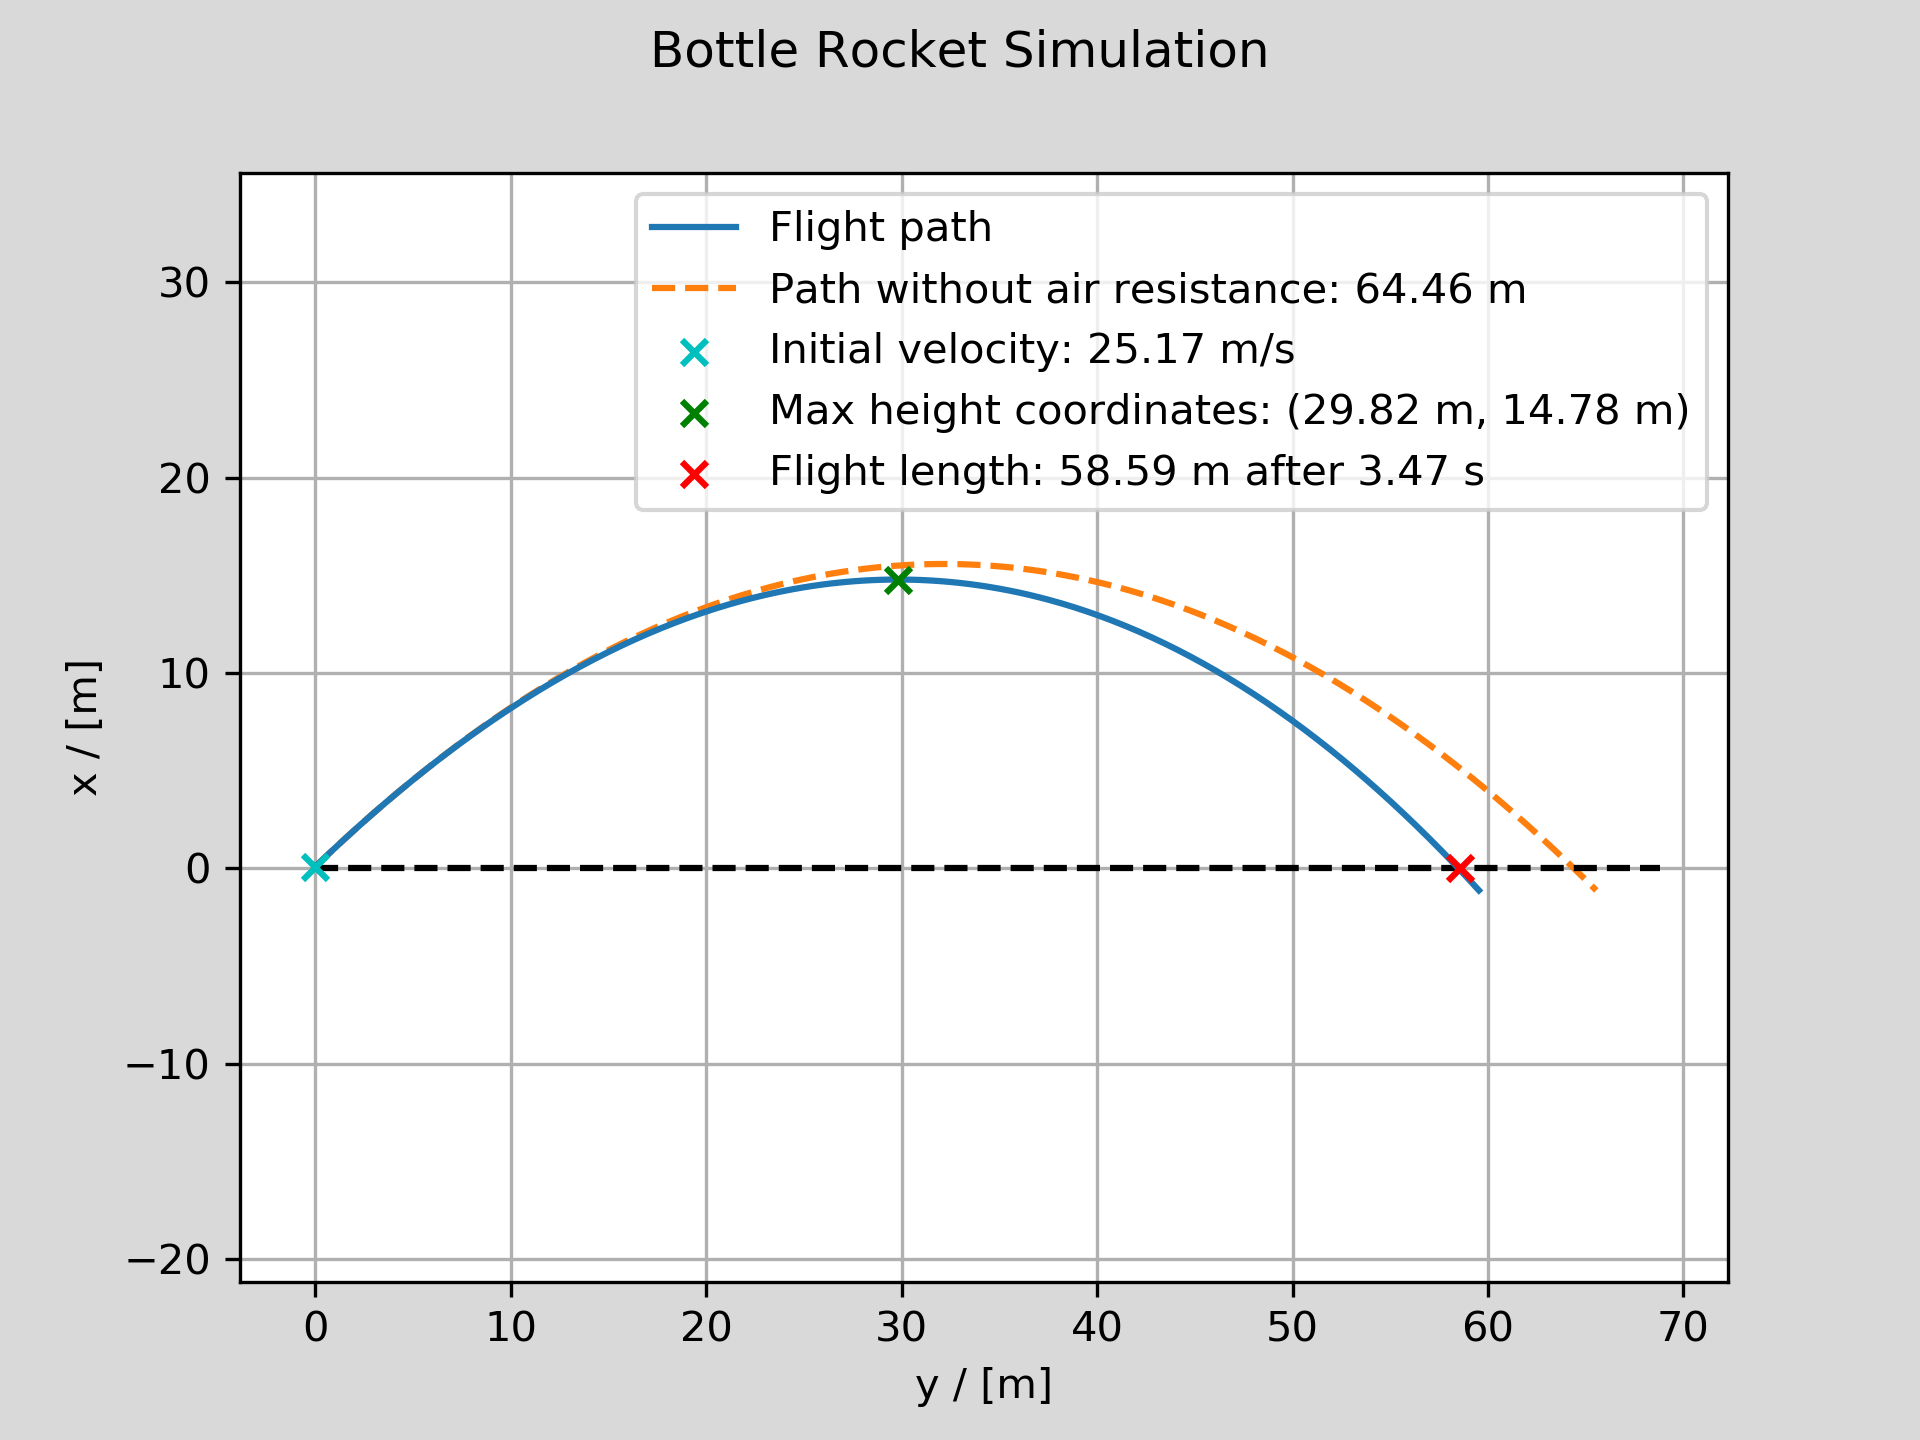
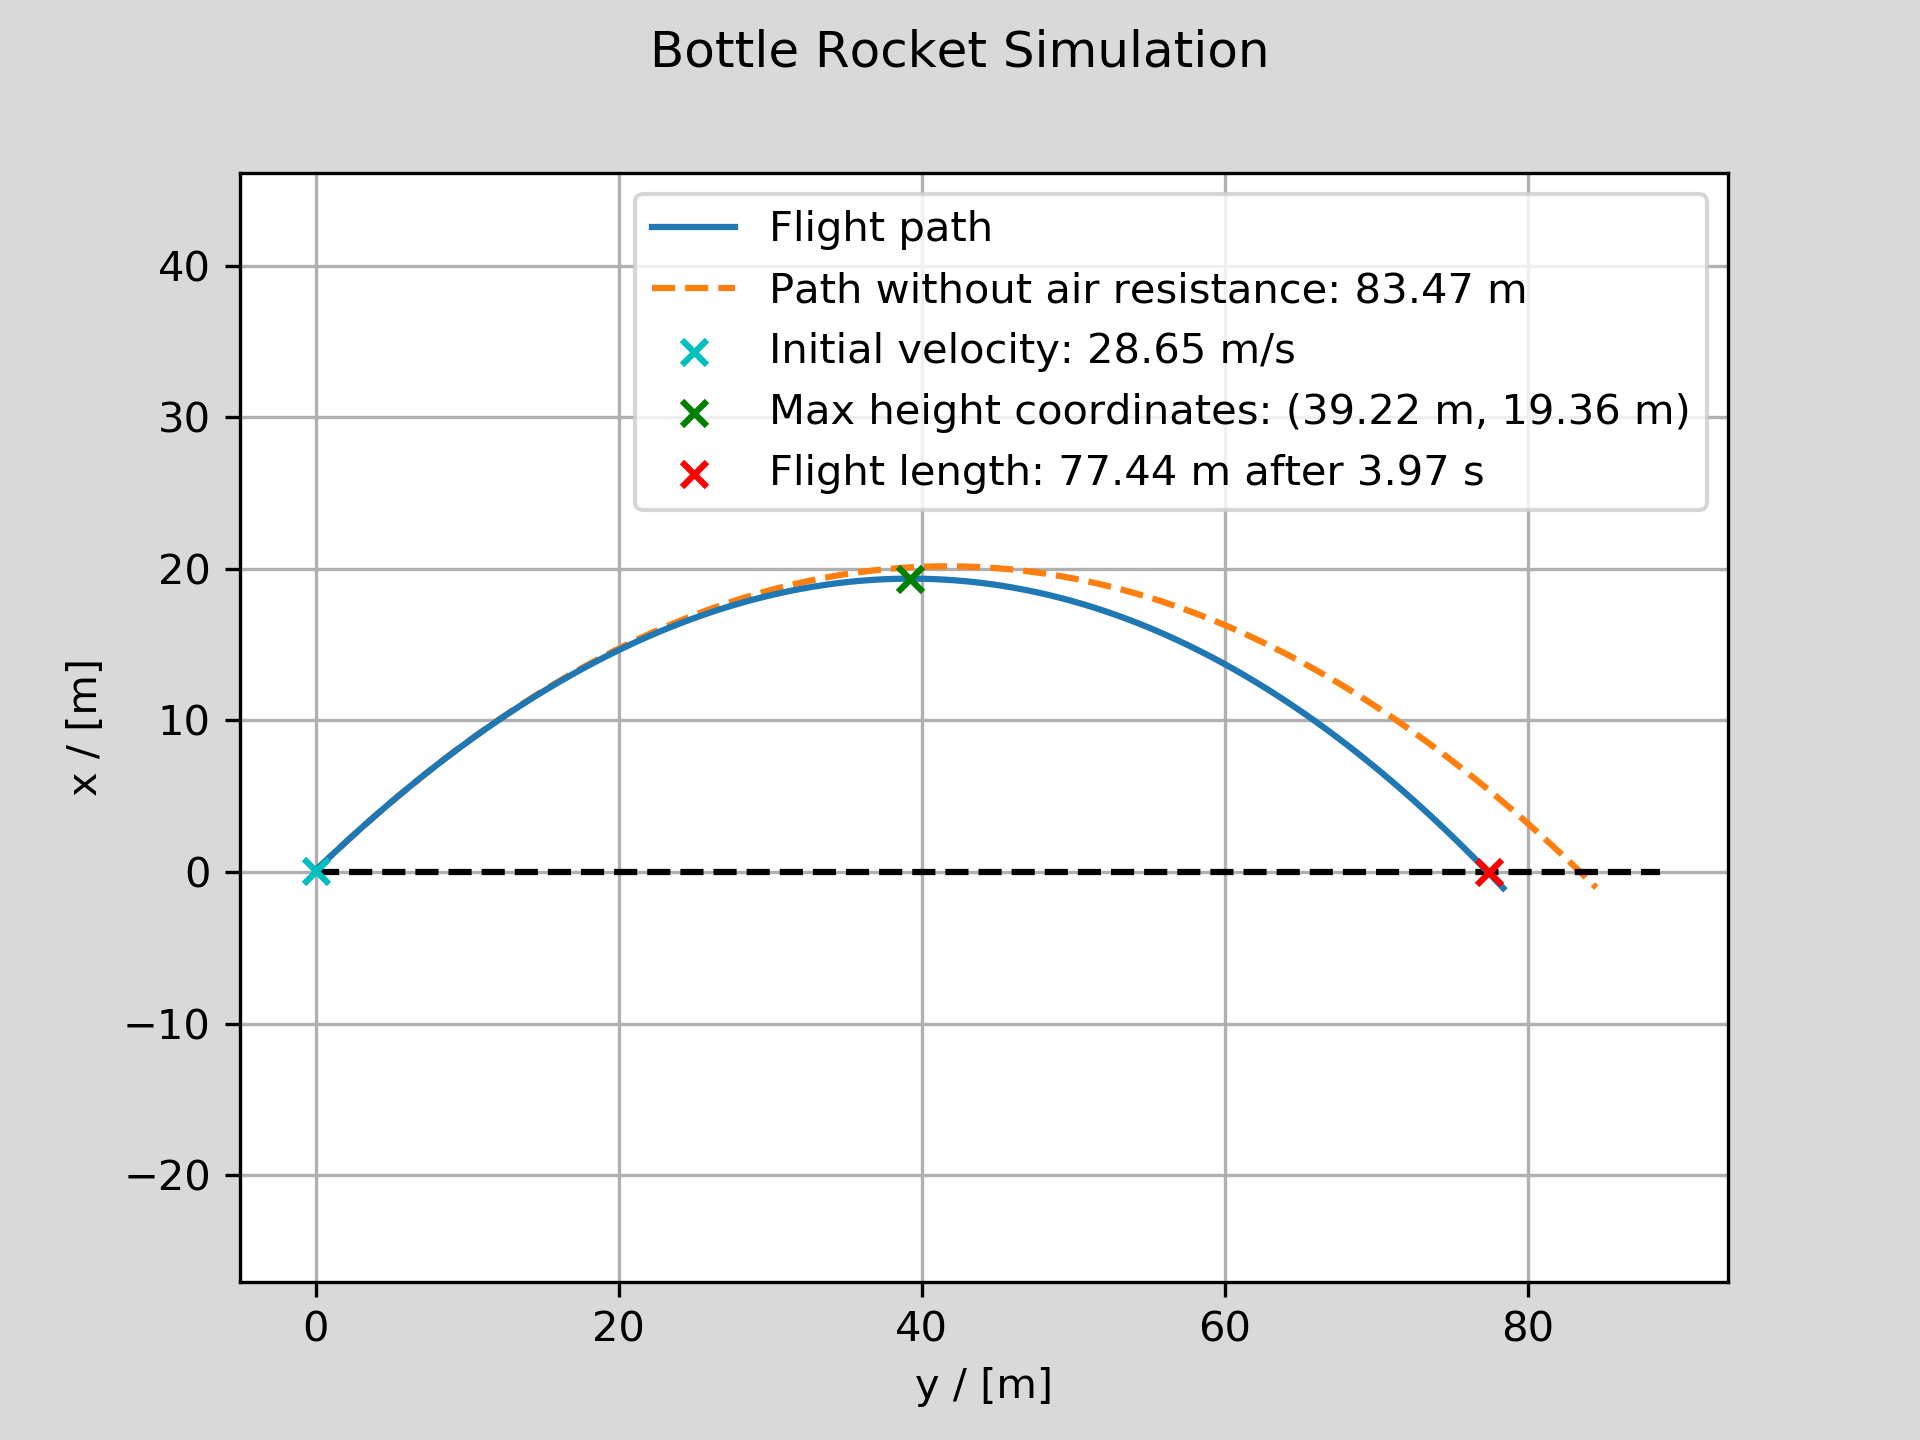
Optimized values

diff --git a/bottle_rocket_simulator.py b/bottle_rocket_simulator.py
@@ -11,27 +11,25 @@ class BottleRocketSimulator():
         # All problem parameters are to be specified here
         # Unit descriptions: SI-units (pa, kg, m^3, radians, m, s)
         p_over = 7*(10**5)
-        p_atmospheric = 101300
-        V_water = .56/1000
+        V_water = .5/1000
         m_water = V_water*998
         m_bottle = .186
         V_bottle = 1.5/1000
         alpha_0 = 46 * np.pi / 180
         g = 9.82
-        efficiency = .7 # work effiency (not currently used)
         gamma = 1.4 # adiabatic
 
-        C = .5
+        C = .3
         rho = 1.26
         d = 9.1/100
         A = (d/2)**2*np.pi 
         k = 1/2 * C * rho * A
 
         u_bottle_0 = InitialVelocityComputer.compute(
-            p_over, p_atmospheric, 
+            p_over, 
             V_bottle, V_water, 
             m_bottle, m_water,
-            efficiency, gamma)
+            gamma)
 
         flight_iterator = FlightIterator()
         flight_iterator.iterate(m_bottle, u_bottle_0, k, alpha_0, g)
@@ -42,3 +40,62 @@ class BottleRocketSimulator():
         visualizer = ResultVisualizer(x_drag, y_drag, t_drag, x_no_drag, y_no_drag, t_no_drag, u_bottle_0)
         visualizer.save_plot()
         # visualizer.show_plot()
+    
+    @staticmethod
+    def optimize():
+        # To optimize
+        V_water_range = np.linspace(.8/1000, 1/1000, 101)
+        alpha_0_range = np.linspace(46*np.pi/180, 50*np.pi/180, 90)
+
+        # Fixed
+        p_over = 7*(10**5)
+        m_bottle = .186
+        V_bottle = 1.5/1000
+        g = 9.82
+        gamma = 1.4 # adiabatic
+
+        C = .5
+        rho = 1.26
+        d = 9.1/100
+        A = (d/2)**2*np.pi 
+        k = 1/2 * C * rho * A
+
+        # Optimized
+        current_best_length = 0
+        V_water_optimized = 0
+        alpha_0_optimized = 0
+
+        for V_water in V_water_range:
+            for alpha_0 in alpha_0_range:
+                m_water = V_water*998
+                u_bottle_0 = InitialVelocityComputer.compute(
+                    p_over, 
+                    V_bottle, V_water, 
+                    m_bottle, m_water,
+                    gamma)
+                flight_iterator = FlightIterator()
+                flight_iterator.iterate(m_bottle, u_bottle_0, k, alpha_0, g)
+                if flight_iterator.get_ground_distance() > current_best_length:
+                    current_best_length = flight_iterator.get_ground_distance()
+                    V_water_optimized = V_water
+                    alpha_0_optimized = alpha_0
+        
+        # Plot optimized values
+        print(V_water_optimized*1000)
+        print(alpha_0_optimized*180/np.pi)
+        print(current_best_length)
+        m_water = V_water_optimized*998
+        u_bottle_0 = InitialVelocityComputer.compute(
+                    p_over, 
+                    V_bottle, V_water_optimized, 
+                    m_bottle, m_water,
+                    gamma)
+        flight_iterator = FlightIterator()
+        flight_iterator.iterate(m_bottle, u_bottle_0, k, alpha_0_optimized, g)
+        x_drag, y_drag, t_drag = flight_iterator.get_path_coordinates()
+        flight_iterator.iterate(m_bottle, u_bottle_0, 0, alpha_0_optimized, g)
+        x_no_drag, y_no_drag, t_no_drag = flight_iterator.get_path_coordinates()
+
+        visualizer = ResultVisualizer(x_drag, y_drag, t_drag, x_no_drag, y_no_drag, t_no_drag, u_bottle_0)
+        visualizer.save_plot()
+        # visualizer.show_plot()    

diff --git a/initial_velocity_computer.py b/initial_velocity_computer.py
@@ -2,10 +2,10 @@ import numpy as np
 
 class InitialVelocityComputer():
     @staticmethod
-    def compute(p_over, p_atmospheric, 
+    def compute(p_over, 
             V_bottle, V_water, 
             m_bottle, m_water,
-            efficiency, gamma):
+            gamma):
             
         # Non-adiabatic    
         # work = p_over*(V_bottle-V_water)*np.log(V_bottle/(V_bottle-V_water))
@@ -13,11 +13,11 @@ class InitialVelocityComputer():
         # Aidabatic
         work = p_over*(V_bottle-V_water)**gamma*((V_bottle-V_water)**(1-gamma) - V_bottle**(1-gamma))
 
-        u = np.sqrt(2*efficiency*work/(m_bottle+m_bottle**2/m_water))
+        u = np.sqrt(2*work/(m_bottle+m_bottle**2/m_water))
 
         u_water_0 = m_bottle/m_water * u
 
-        print("u_0 water = %s" %(u_water_0))
+        # print("u_0 water = %s" %(u_water_0))
 
         # u = np.sqrt(
         #     (p_over*V_water**2/(V_bottle-V_water))

diff --git a/flight_iterator.py b/flight_iterator.py
@@ -15,6 +15,11 @@ class FlightIterator():
     def get_path_coordinates(self):
         return self.x_coordinates, self.y_coordinates, self.t_coordinates
 
+    def get_ground_distance(self):
+        first_negative_y_index = np.argmax(self.y_coordinates < 0)
+        flight_length = self.x_coordinates[first_negative_y_index]
+        return flight_length
+
     """
     Iterates given the initial conditions until the rocket has reached the ground.
     The x-, y- and t-coordinates are stored in the class fields.

diff --git a/main.py b/main.py
@@ -2,6 +2,7 @@ from bottle_rocket_simulator import BottleRocketSimulator
 
 def main():
     BottleRocketSimulator.simulate()
+    # BottleRocketSimulator.optimize()
 
 if __name__ == "__main__":
     main()
